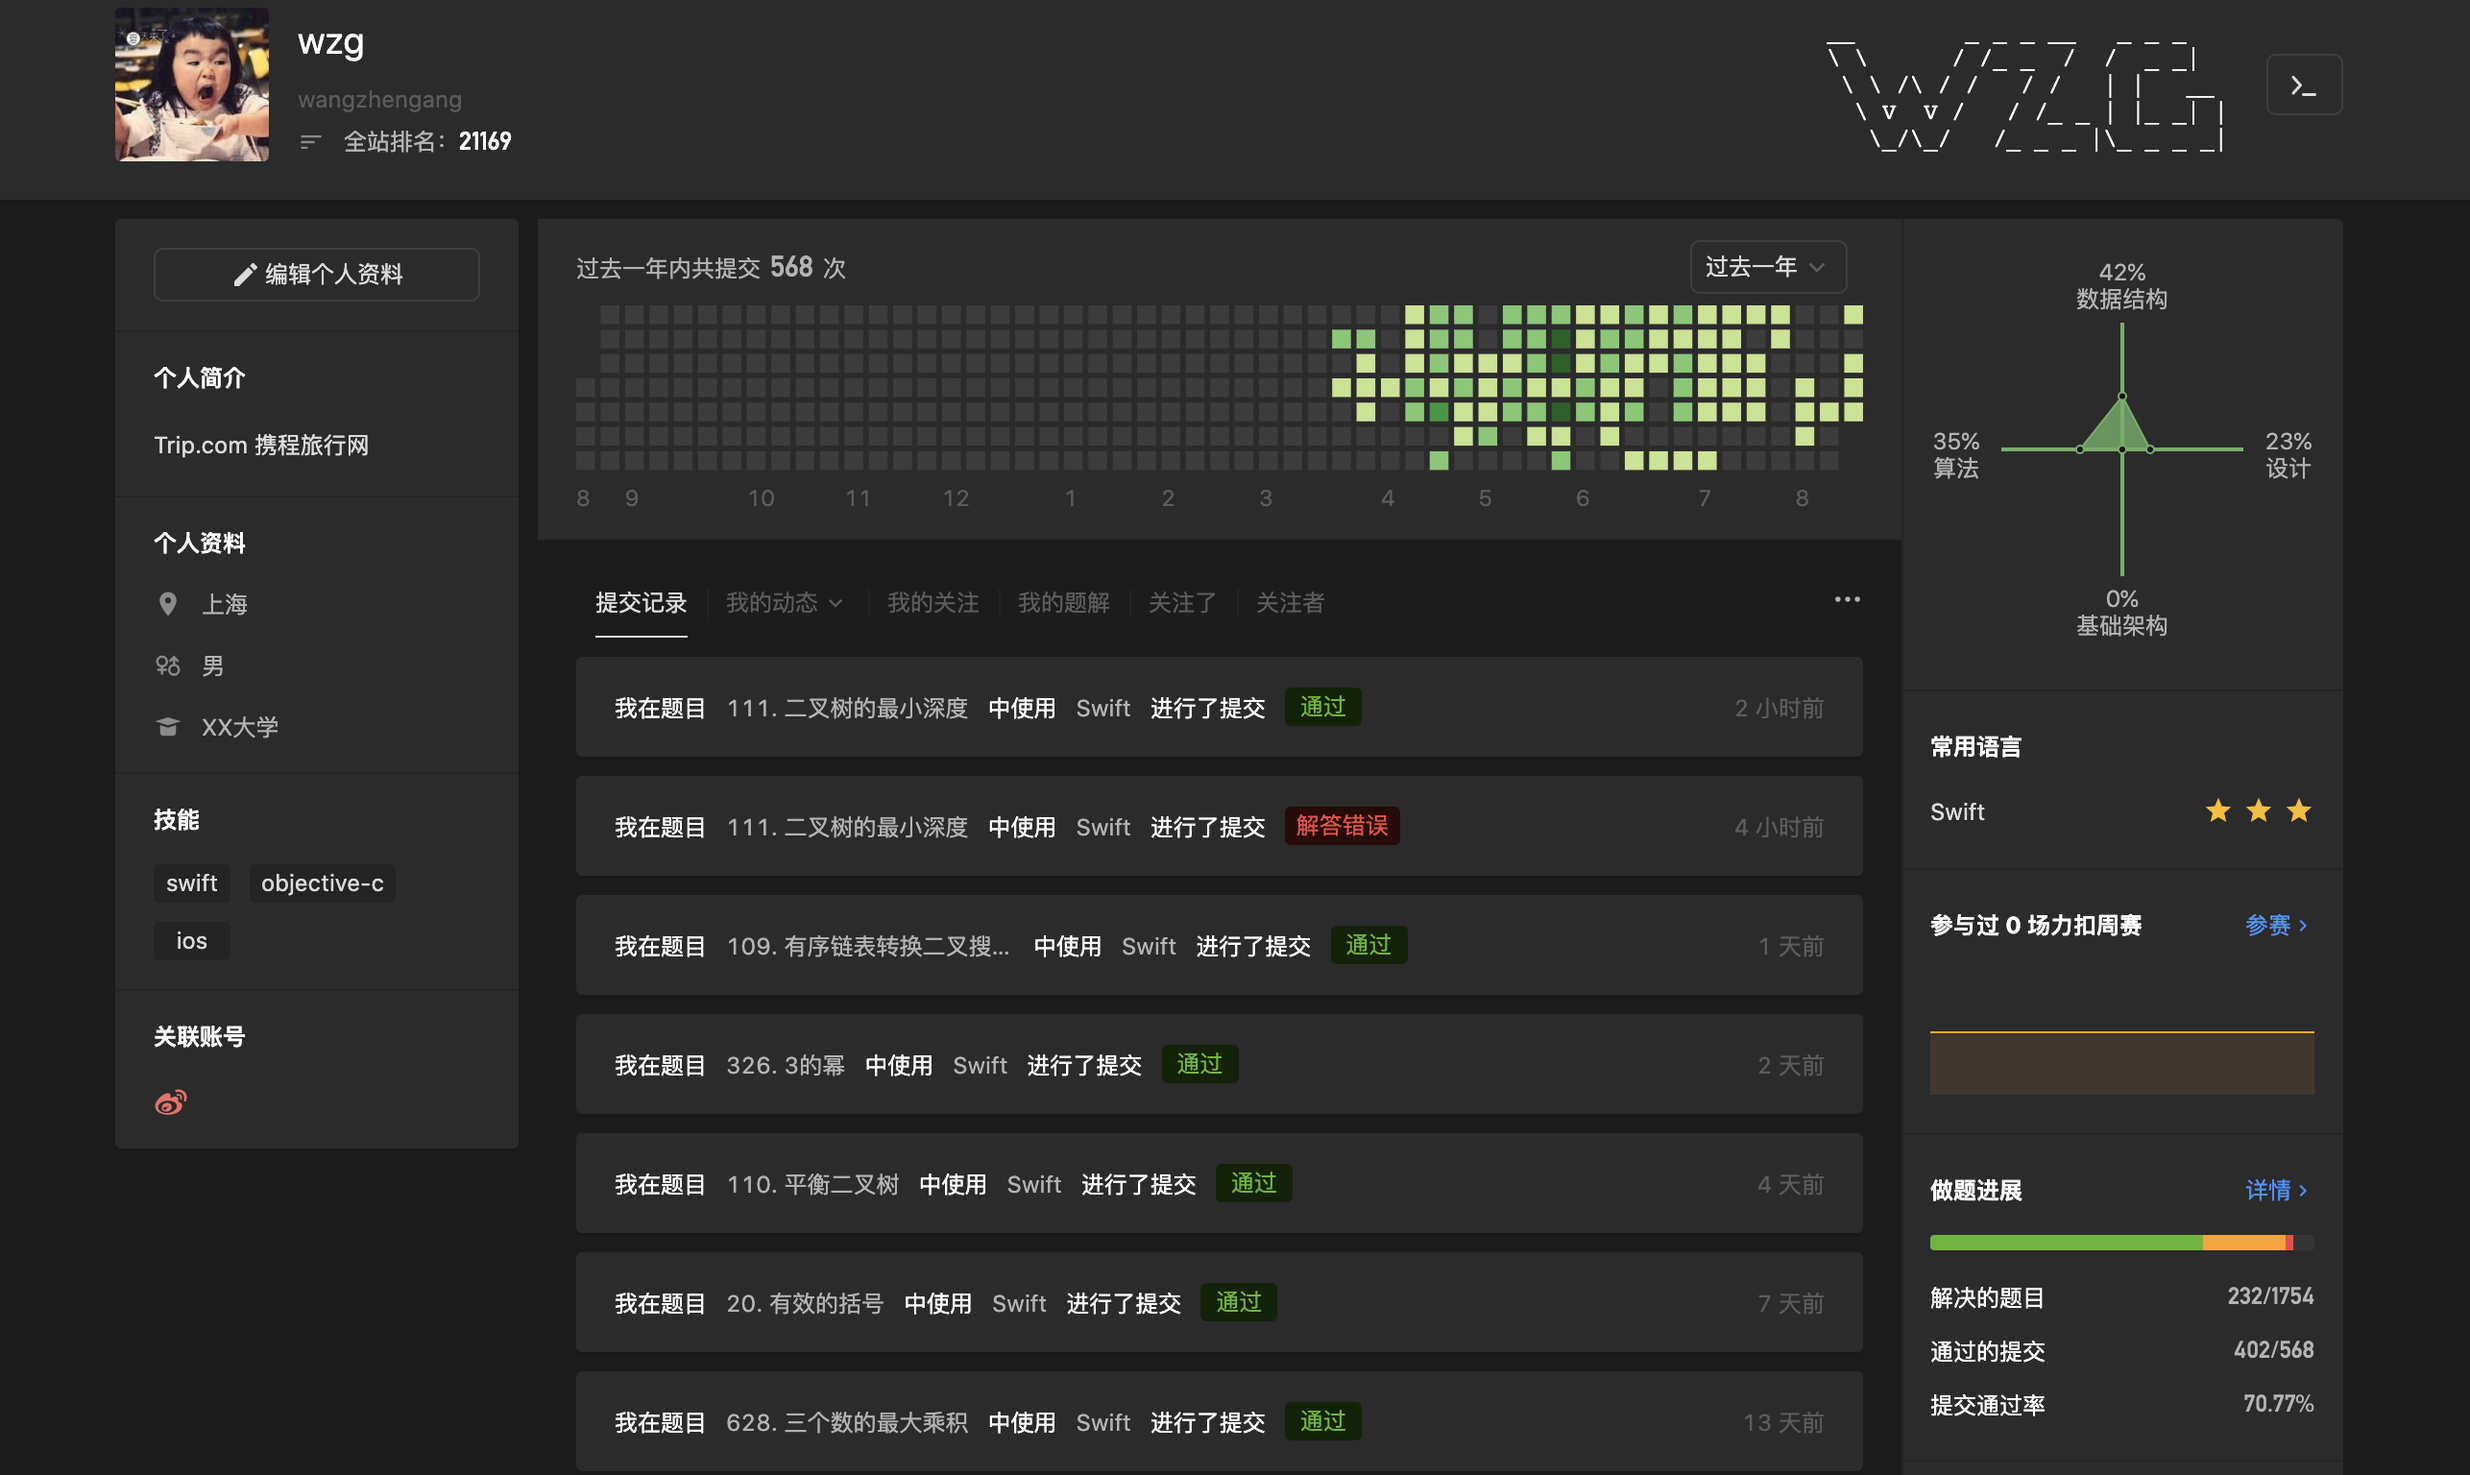
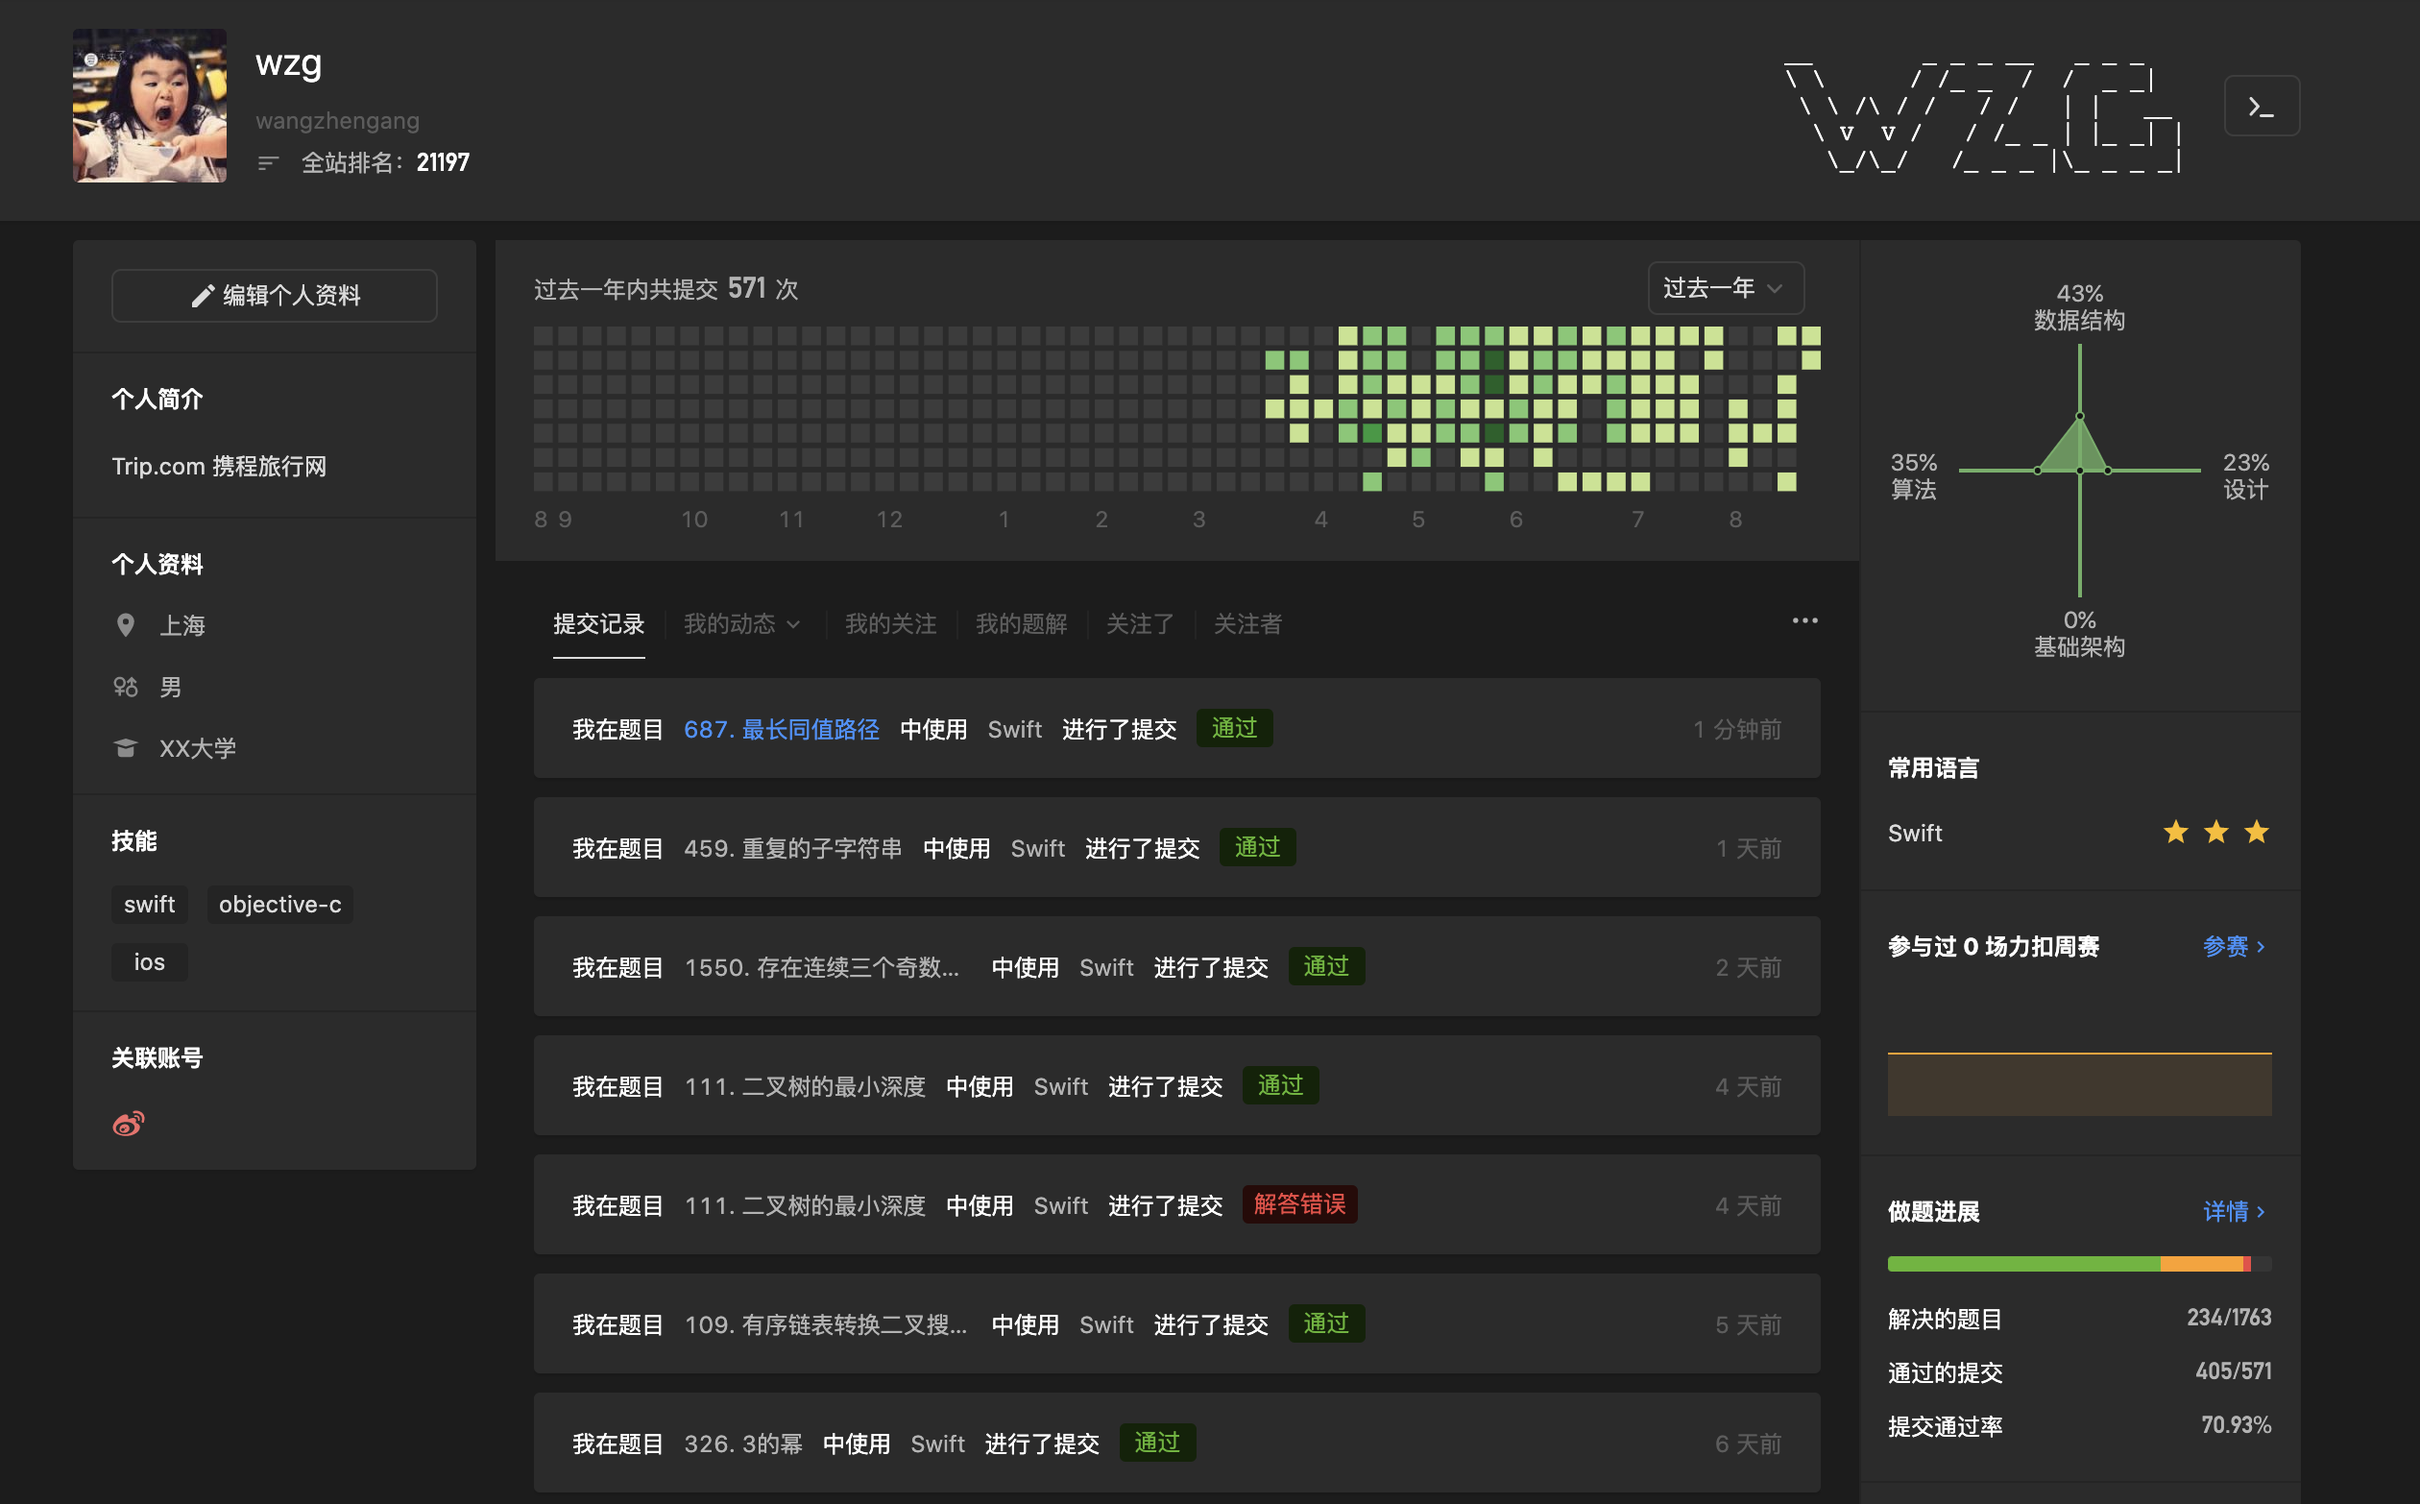
【共234题】：新增1题

diff --git a/LeetCodeTest/LeetCodeTest/main.swift b/LeetCodeTest/LeetCodeTest/main.swift
@@ -4295,6 +4295,29 @@ class Solution {
         return (count == 3)
     }
     
+    ///687. 最长同值路径
+    func longestUnivaluePath(_ root: TreeNode?) -> Int {
+    var ans = 0
+        longestUnivaluePath_arrow(root, &ans)
+        return ans
+    }
+    @discardableResult
+    func longestUnivaluePath_arrow(_ root: TreeNode?, _ ans: inout Int) -> Int {
+        if root == nil {
+            return 0
+        }
+        let left  = longestUnivaluePath_arrow(root?.left, &ans)
+        let right = longestUnivaluePath_arrow(root?.right, &ans)
+        var arrowLeft = 0, arrowRight = 0
+        if root!.left != nil && root!.left!.val == root!.val  {
+            arrowLeft += left + 1
+        }
+        if root!.right != nil && root!.right!.val == root!.val {
+            arrowRight += right + 1
+        }
+        ans = max(ans, arrowLeft + arrowRight)
+        return max(arrowLeft, arrowRight)
+    }
 }
 
 // 1 2  2 1
@@ -4326,7 +4349,7 @@ for i in 1...10000 {
 }
  
 let c = Date().milliStamp
-let r = s.threeConsecutiveOdds( [] )
+let r = s.longestUnivaluePath( nil )
 print(r)
 let m = Date().milliStamp - c
 print(m)
